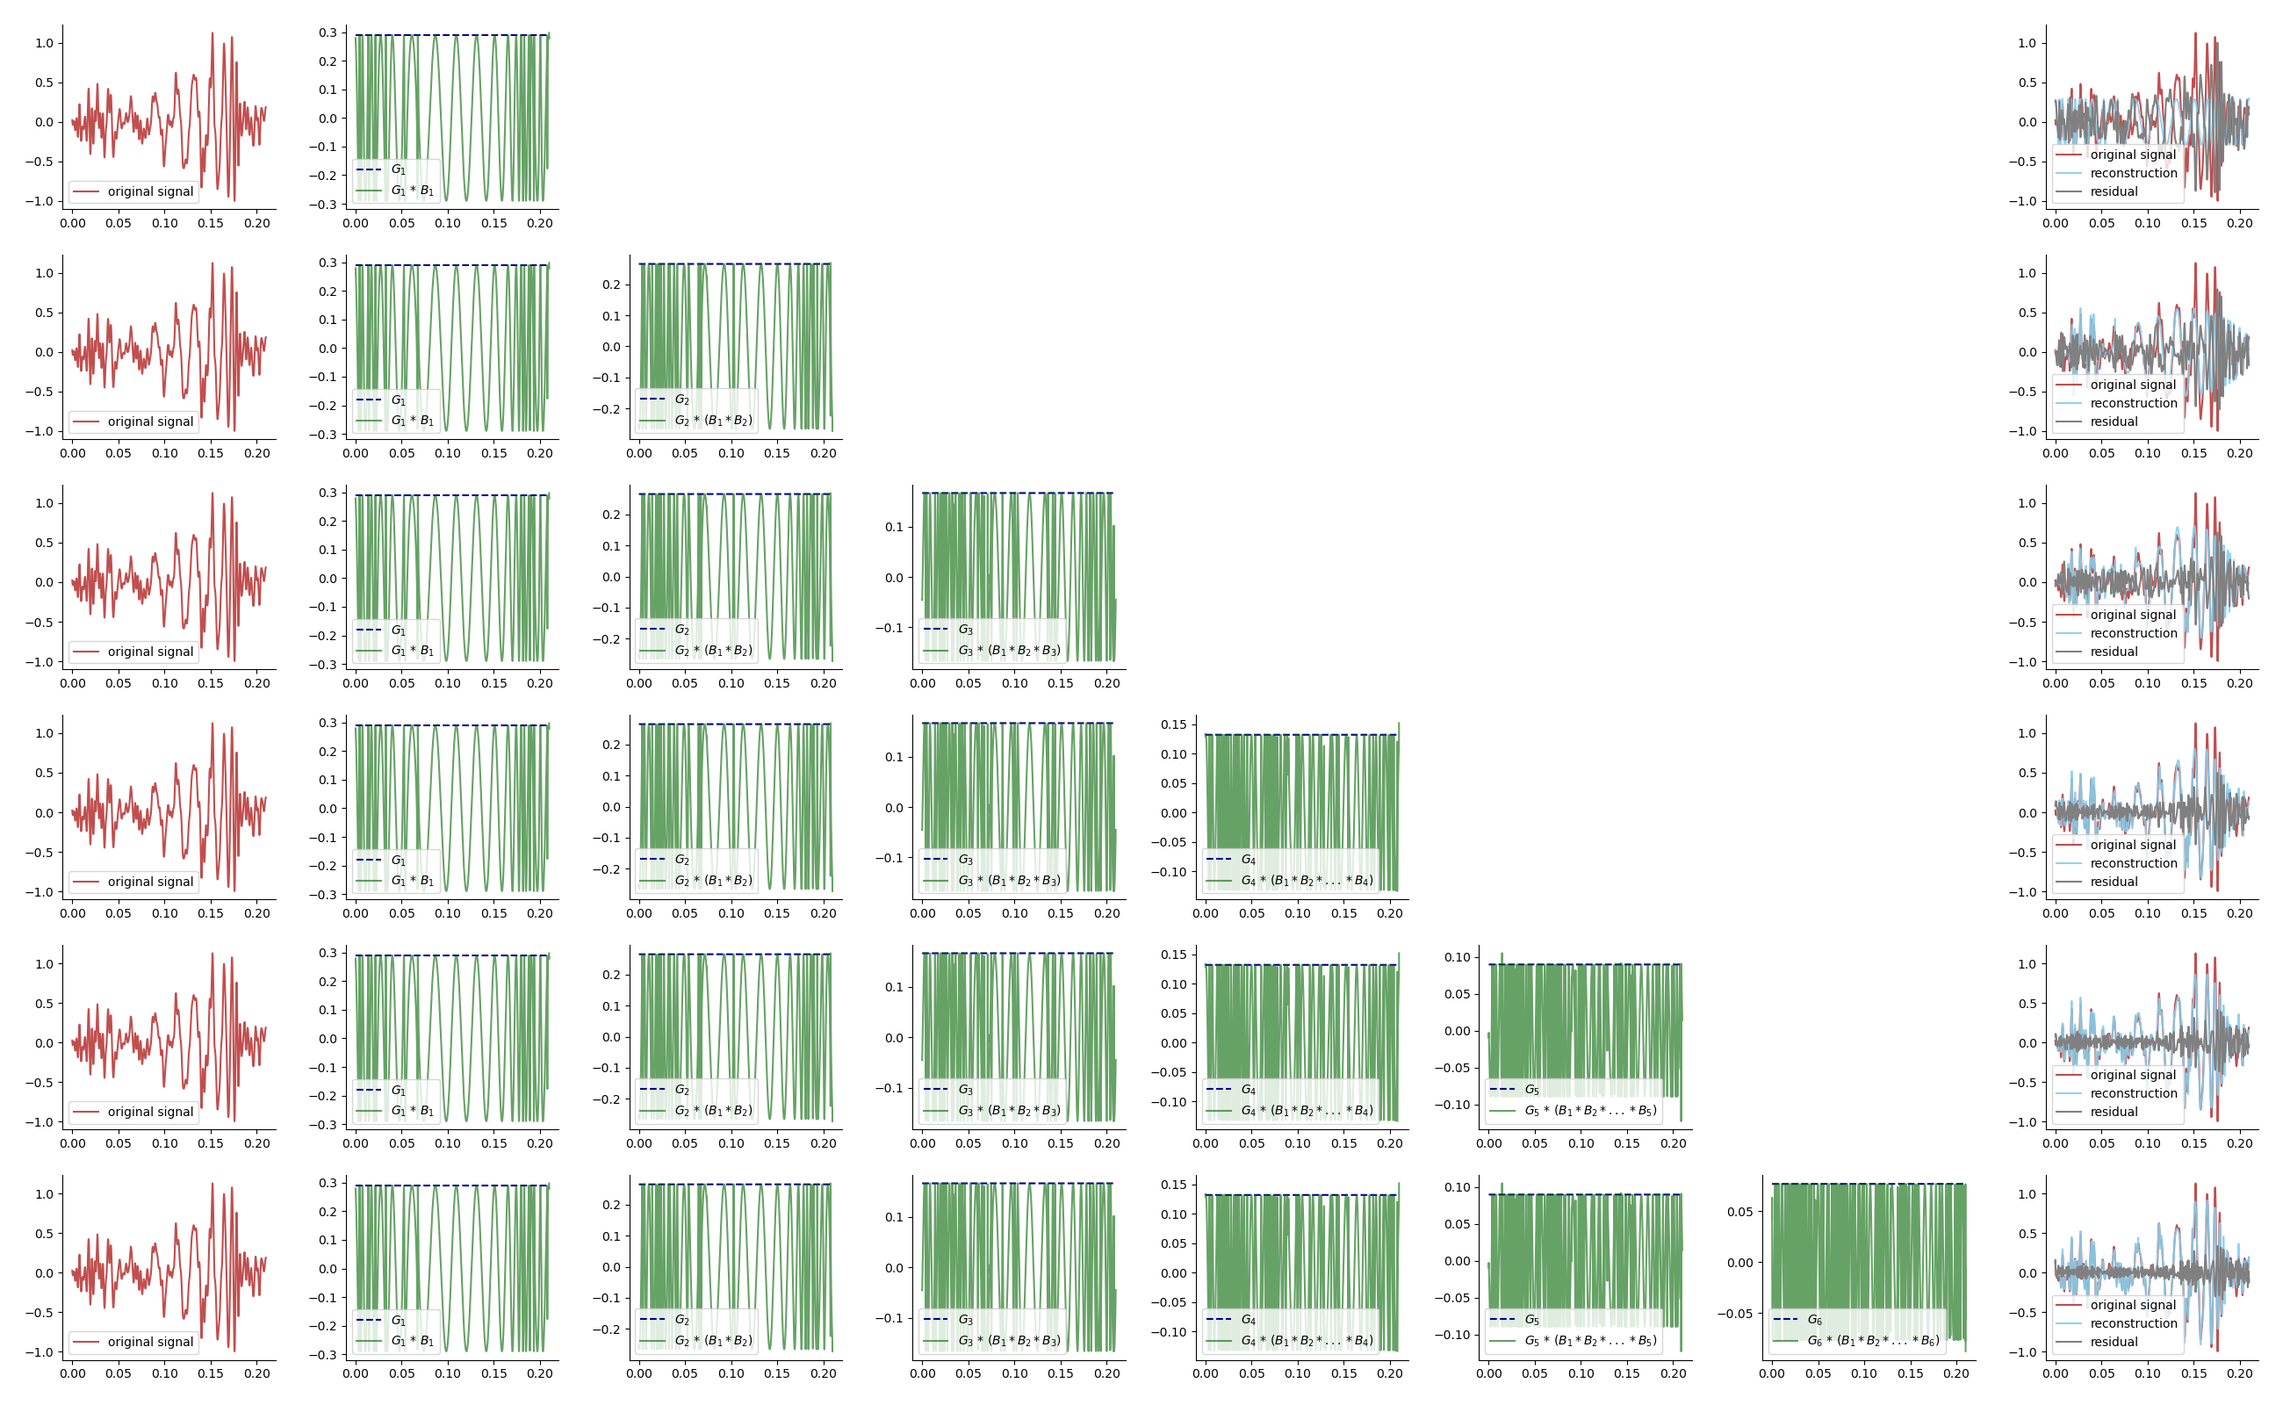
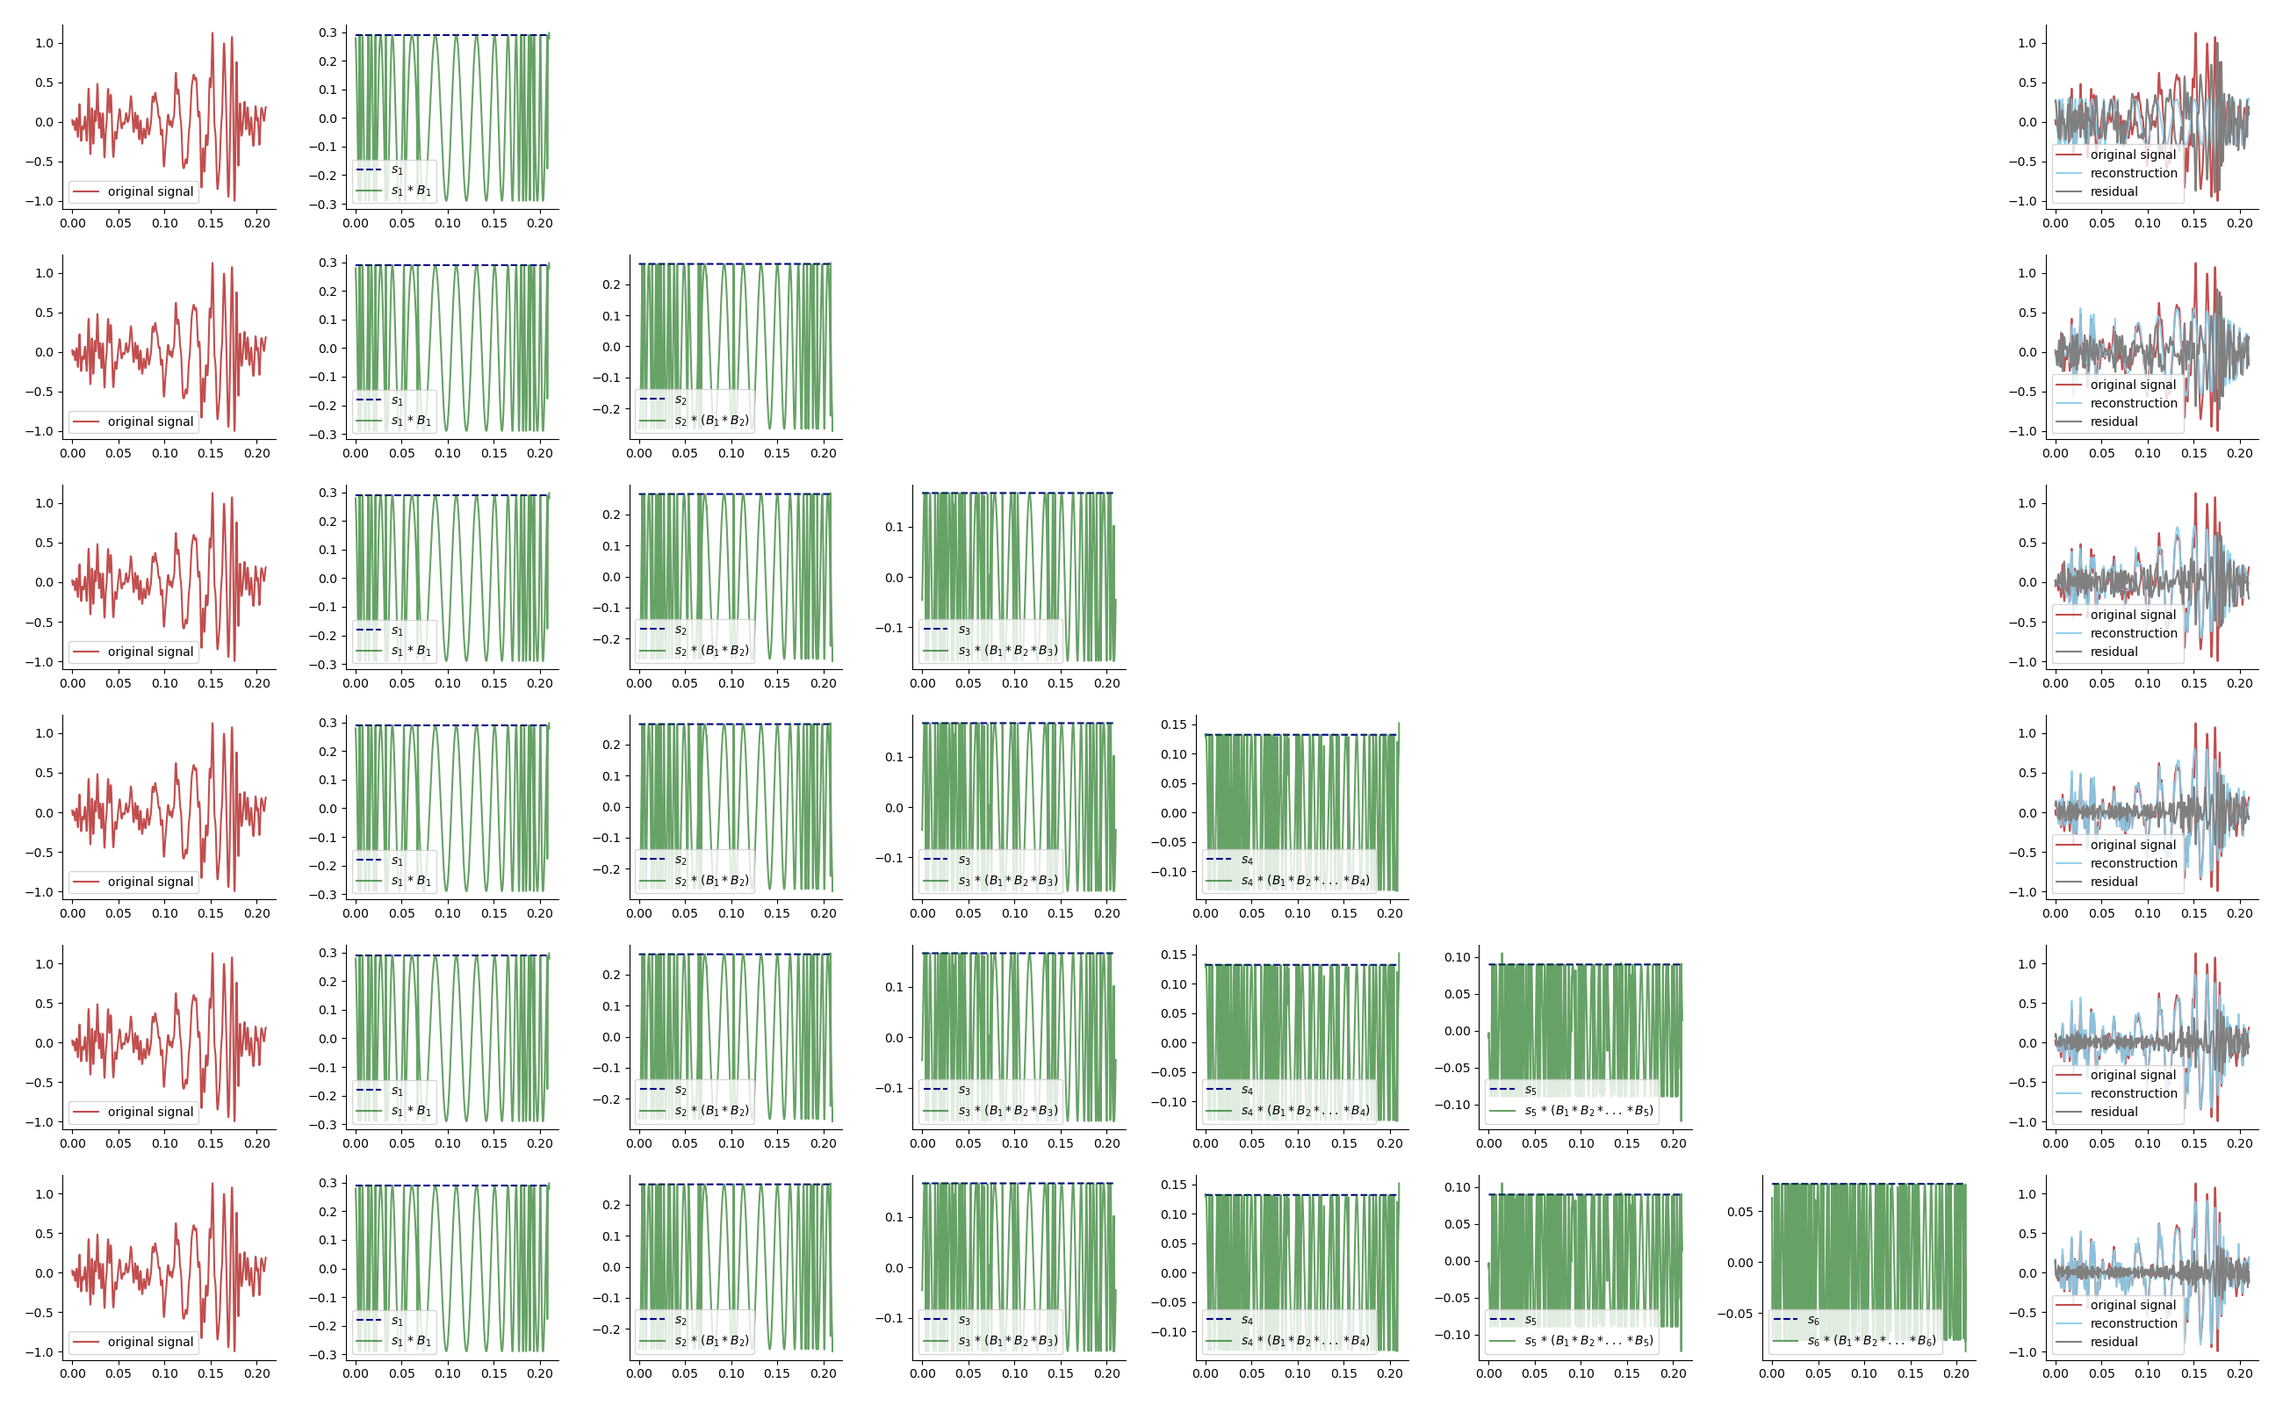
add plotting

diff --git a/src/train_ecg_ptbxl_1d.py b/src/train_ecg_ptbxl_1d.py
@@ -8,6 +8,8 @@ import torch.optim as optim
 from torch.utils.data import DataLoader
 from tqdm import tqdm
 from sklearn.metrics import roc_auc_score, accuracy_score, precision_recall_curve
+from einops import rearrange
+from matplotlib import pyplot as plt
 
 from models.BN1d import BlaschkeNetwork1d
 from nn_utils.scheduler import LinearWarmupCosineAnnealingLR
@@ -46,11 +48,75 @@ def binary_entropy(batched_coeffs: torch.Tensor, eps: float = 1e-8) -> torch.Ten
     return entropy
 
 
-def train_epoch(train_loader, model, optimizer, loss_fn_pred, num_classes, device):
+@torch.no_grad()
+def plot_signal_approx(signal_complex, s_arr, B_prod_arr, mode: str, epoch_idx: int, batch_idx: int):
+    signal_complex = signal_complex.cpu().detach().numpy()
+    s_arr = s_arr.cpu().detach().numpy()
+    B_prod_arr = B_prod_arr.cpu().detach().numpy()
+    assert len(signal_complex.shape) == 3
+    assert len(s_arr.shape) == len(B_prod_arr.shape) == 4
+    assert signal_complex.shape[0] == 1
+    assert signal_complex.shape[1] == B_prod_arr.shape[1] == 1
+    assert signal_complex.shape[2] == B_prod_arr.shape[2]
+    blaschke_order = B_prod_arr.shape[-1]
+
+    signal_complex = rearrange(signal_complex, 'b c l -> (b c) l').squeeze(0)
+    s_arr = rearrange(s_arr, 'b c l i -> (b c l) i').squeeze(0)
+    B_prod_arr = rearrange(B_prod_arr, 'b c l i -> (b c) l i').squeeze(0)
+
+    fig, ax = plt.subplots(blaschke_order, blaschke_order + 2, figsize = (4 * blaschke_order + 8, 4 * blaschke_order))
+    if blaschke_order == 1:
+        ax = ax[np.newaxis, :]
+    time_arr = np.arange(signal_complex.shape[-1])
+    for total_order in range(blaschke_order):
+        ax[total_order, 0].plot(time_arr, signal_complex.real, label = 'original signal', color='firebrick', alpha=0.8)
+        ax[total_order, 0].legend(loc='lower left')
+        ax[total_order, 0].spines['top'].set_visible(False)
+        ax[total_order, 0].spines['right'].set_visible(False)
+
+    for total_order in range(1, blaschke_order + 1):
+        for curr_order in range(1, total_order + 1):
+            ax[total_order - 1, curr_order].hlines(s_arr[curr_order-1].real, xmin=time_arr.min(), xmax=time_arr.max(), label = f'$s_{curr_order}$', color='darkblue', linestyle='--')
+            ax[total_order - 1, curr_order].plot(time_arr, (B_prod_arr[:, curr_order-1] * s_arr[curr_order-1]).real, label = f'$s_{curr_order}$ * ${display_blaschke_product(curr_order)}$', color='darkgreen', alpha=0.6)
+            ax[total_order - 1, curr_order].legend(loc='lower left')
+            ax[total_order - 1, curr_order].spines['top'].set_visible(False)
+            ax[total_order - 1, curr_order].spines['right'].set_visible(False)
+
+    final = 0
+    for curr_order in range(1, blaschke_order + 1):
+        final += (B_prod_arr[:, curr_order-1] * s_arr[curr_order-1]).real
+        ax[curr_order - 1, blaschke_order + 1].plot(time_arr, signal_complex.real, label = 'original signal', color='firebrick', alpha=0.8)
+        ax[curr_order - 1, blaschke_order + 1].plot(time_arr, final, label = 'reconstruction', color='skyblue', alpha=0.9)
+        ax[curr_order - 1, blaschke_order + 1].plot(time_arr, final - signal_complex.real, label = 'residual', color='gray', alpha=1.0)
+        ax[curr_order - 1, blaschke_order + 1].legend(loc='lower left')
+        ax[curr_order - 1, blaschke_order + 1].spines['top'].set_visible(False)
+        ax[curr_order - 1, blaschke_order + 1].spines['right'].set_visible(False)
+
+    # Remove axes from unused subplots
+    for i in range(blaschke_order):
+        for j in range(blaschke_order + 2):
+            if (j > i + 1) and (j != blaschke_order + 1):
+                ax[i, j].axis('off')
+
+    if mode != 'test':
+        save_path = os.path.join(args.plot_folder, mode, f'epoch_{epoch_idx + 1}_batch_{batch_idx + 1}.png')
+    else:
+        save_path = os.path.join(args.plot_folder, 'test.png')
+    os.makedirs(os.path.dirname(save_path), exist_ok=True)
+    fig.tight_layout(pad=2)
+    fig.savefig(save_path)
+    plt.close(fig)
+    return
+
+
+def train_epoch(train_loader, model, optimizer, loss_fn_pred, num_classes, device, epoch_idx):
     train_loss_pred, train_loss_recon, train_loss_indicator, train_acc, train_auroc = 0, 0, 0, 0, 0
     y_true_arr, y_pred_arr = None, None
+    plot_freq = max(len(train_loader) // args.n_plot_per_epoch, 1)
 
-    for (x, y_true) in train_loader:
+    for batch_idx, (x, y_true) in enumerate(train_loader):
+        should_plot = batch_idx % plot_freq == 0
+
         optimizer.zero_grad()
         x = x.to(device)
         y_pred, residual_sqnorm, weighting_coeffs = model(x)
@@ -81,6 +147,11 @@ def train_epoch(train_loader, model, optimizer, loss_fn_pred, num_classes, devic
             y_true_arr = np.vstack((y_true_arr, y_true.detach().cpu().numpy()))
             y_pred_arr = np.vstack((y_pred_arr, y_pred.detach().cpu().numpy()))
 
+        if should_plot:
+            with torch.no_grad():
+                signal_complex, s_arr, B_prod_arr = model.test_approximate(x[:1, :1, :])
+            plot_signal_approx(signal_complex, s_arr, B_prod_arr, mode='train', epoch_idx=epoch_idx, batch_idx=batch_idx)
+
     train_loss_pred /= len(train_loader)
     train_loss_recon /= len(train_loader)
     train_loss_indicator /= len(train_loader)
@@ -102,12 +173,14 @@ def train_epoch(train_loader, model, optimizer, loss_fn_pred, num_classes, devic
     return train_loss_pred, train_loss_recon, train_loss_indicator, train_acc, train_auroc
 
 @torch.no_grad()
-def infer(loader, model, loss_fn_pred, num_classes, device):
+def infer(loader, model, loss_fn_pred, num_classes, device, epoch_idx):
     avg_loss_pred, avg_loss_recon, avg_loss_indicator, acc, auroc = 0, 0, 0, 0, 0
     y_true_arr, y_pred_arr = None, None
     residual_by_iter = 0
+    plot_freq = max(len(loader) // args.n_plot_per_epoch, 1)
 
-    for x, y_true in loader:
+    for batch_idx, (x, y_true) in enumerate(loader):
+        should_plot = batch_idx % plot_freq == 0
         x = x.to(device)
         y_pred, residual_sqnorm, weighting_coeffs = model(x)
 
@@ -126,6 +199,15 @@ def infer(loader, model, loss_fn_pred, num_classes, device):
         else:
             y_true_arr = np.vstack((y_true_arr, y_true.detach().cpu().numpy()))
             y_pred_arr = np.vstack((y_pred_arr, y_pred.detach().cpu().numpy()))
+
+        if should_plot:
+            with torch.no_grad():
+                signal_complex, s_arr, B_prod_arr = model.test_approximate(x[:1, :1, :])
+            if epoch_idx is None:
+                mode = 'test'
+            else:
+                mode = 'val'
+            plot_signal_approx(signal_complex, s_arr, B_prod_arr, mode=mode, epoch_idx=epoch_idx, batch_idx=batch_idx)
 
     avg_loss_recon /= len(loader)
     avg_loss_pred /= len(loader)
@@ -146,6 +228,7 @@ def infer(loader, model, loss_fn_pred, num_classes, device):
     acc = np.mean(acc_by_class)
     auroc = np.mean(auroc_by_class)
     return avg_loss_pred, avg_loss_recon, avg_loss_indicator, residual_by_iter, acc, auroc
+
 
 def main(args):
     # Log the config.
@@ -188,11 +271,11 @@ def main(args):
         train_loss_pred_list, train_loss_recon_list, train_loss_indicator_list = [], [], []
         val_loss_pred_list, val_loss_recon_list, val_loss_indicator_list = [], [], []
         with tqdm(range(args.epoch)) as pbar:
-            for epoch in pbar:
+            for epoch_idx, epoch in enumerate(pbar):
                 # Training.
                 model.train()
                 train_loss_pred, train_loss_recon, train_loss_indicator, train_acc, train_auroc = \
-                    train_epoch(train_loader=train_loader, model=model, optimizer=optimizer, loss_fn_pred=loss_fn_pred, num_classes=num_classes, device=device)
+                    train_epoch(train_loader=train_loader, model=model, optimizer=optimizer, loss_fn_pred=loss_fn_pred, num_classes=num_classes, device=device, epoch_idx=epoch_idx)
                 train_loss_pred_list.append(train_loss_pred)
                 train_loss_recon_list.append(train_loss_recon)
                 train_loss_indicator_list.append(train_loss_indicator)
@@ -202,7 +285,7 @@ def main(args):
                 # Validation.
                 model.eval()
                 val_loss_pred, val_loss_recon, val_loss_indicator, val_residual_by_iter, val_acc, val_auroc = \
-                    infer(loader=val_loader, model=model, loss_fn_pred=loss_fn_pred, num_classes=num_classes, device=device)
+                    infer(loader=val_loader, model=model, loss_fn_pred=loss_fn_pred, num_classes=num_classes, device=device, epoch_idx=epoch_idx)
                 val_loss_pred_list.append(val_loss_pred)
                 val_loss_recon_list.append(val_loss_recon)
                 val_loss_indicator_list.append(val_loss_indicator)
@@ -252,7 +335,7 @@ def main(args):
     log('Testing begins.', filepath=args.log_path)
     model.eval()
     test_loss_pred, test_loss_recon, test_loss_indicator, test_residual_by_iter, test_acc, test_auroc = \
-        infer(loader=test_loader, model=model, loss_fn_pred=loss_fn_pred, num_classes=num_classes, device=device)
+        infer(loader=test_loader, model=model, loss_fn_pred=loss_fn_pred, num_classes=num_classes, device=device, epoch_idx=None)
 
     log_string = f'\nTest pred loss = {test_loss_pred:.3f}, recon loss = {test_loss_recon:.5f}, indicator loss = {test_loss_indicator:.5f}, acc = {100 * test_acc:.3f}, auroc = {100 * test_auroc:.3f}, test_residual_by_iter = {test_residual_by_iter}.'
     log(log_string, filepath=args.log_path, to_console=False)
@@ -267,6 +350,7 @@ if __name__ == '__main__':
     parser.add_argument('--lr', help='Learning rate.', type=float, default=1e-2)
     parser.add_argument('--batch-size', type=int, default=256)
     parser.add_argument('--epoch', type=int, default=40)
+    parser.add_argument('--n-plot-per-epoch', type=int, default=4)
     parser.add_argument('--loss-recon-coeff', type=float, default=1.0)
     parser.add_argument('--loss-indicator-coeff', type=float, default=0.1)        # Blaschke root selectors should be (almost) either 0 or 1.
     parser.add_argument('--num-workers', type=int, default=8)
@@ -285,6 +369,7 @@ if __name__ == '__main__':
     args.log_path = os.path.join(args.results_dir, 'log.txt')
     args.model_save_path = os.path.join(args.results_dir, 'model.pty')
     args.results_stats_save_path = os.path.join(args.results_dir, 'results_stats.npz')
+    args.plot_folder = os.path.join(ROOT_DIR, 'results', curr_run_identifier, 'figures')
 
     os.makedirs(args.results_dir, exist_ok=True)
 

diff --git a/src/models/BN1d.py b/src/models/BN1d.py
@@ -381,6 +381,42 @@ class BlaschkeNetwork1d(nn.Module):
         signal = torch.from_numpy(signal).to(x.device)
         return signal
 
+    @torch.no_grad()
+    def test_approximate(self, x: torch.Tensor) -> torch.Tensor:
+        # Input should be a [B, C, L] signal.
+        assert len(x.shape) == 3
+        # Complexify the signal using hilbert transform.
+        signal_complex = self.complexify(x)
+
+        blaschke_factors = []
+        s_arr, B_prod_arr = None, None
+
+        residual_signal = signal_complex
+        for layer in self.encoder:
+            blaschke_factors.append(layer(residual_signal))
+
+            # Blaschke product is the cumulative product of Blaschke factors
+            # B_1 * B_2 * ... * B_n.
+            blaschke_product = 1
+            for blaschke_factor in blaschke_factors:
+                blaschke_product = blaschke_product * blaschke_factor
+
+            # The Blaschke approximation is given by
+            # s_n * B_1 * B_2 * ... * B_n.
+            curr_signal_approx = layer.scale * blaschke_product
+
+            # F_{n+1} = F_n - s_n * B_1 * ... * B_n.
+            residual_signal = residual_signal - curr_signal_approx
+
+            if s_arr is None:
+                s_arr = layer.scale.unsqueeze(-1)
+                B_prod_arr = blaschke_product.unsqueeze(-1)
+            else:
+                s_arr = torch.cat((s_arr, layer.scale.unsqueeze(-1)), dim=-1)
+                B_prod_arr = torch.cat((B_prod_arr, blaschke_product.unsqueeze(-1)), dim=-1)
+
+        return signal_complex, s_arr, B_prod_arr
+
     def forward(self, x: torch.Tensor) -> torch.Tensor:
         '''
         Args:
@@ -392,8 +428,10 @@ class BlaschkeNetwork1d(nn.Module):
         --------
             y_pred : 2D torch.float
                 outputs, shape [B, CLS] (batch size, number of classes)
-            residual_signals_sqsum : torch.float
+            residual_sqnorm : torch.float
                 squared norm of signal approximation error
+            weighting_coeffs: torch.float
+                model-predicted weighting coefficient for each Blaschke root
         '''
 
         # Input should be a [B, C, L] signal.
@@ -464,8 +502,24 @@ class BlaschkeNetwork1d(nn.Module):
         self.device = device
         return self
 
+def display_blaschke_product(order: int):
+    '''
+    A helper function to print the blaschke product in cumulative product.
+    '''
+    blaschke_product_str = ''
+    if order == 1:
+        blaschke_product_str += 'B_1'
+    elif order == 2:
+        blaschke_product_str += '(B_1 * B_2)'
+    elif order == 3:
+        blaschke_product_str += '(B_1 * B_2 * B_3)'
+    else:
+        blaschke_product_str += f'(B_1 * B_2 *...* B_{order})'
+    return blaschke_product_str
+
 
 if __name__ == '__main__':
-    model = BlaschkeNetwork1d(layers=3, signal_len=100, num_channels=10, patch_size=20)
+    model = BlaschkeNetwork1d(layers=1, signal_len=100, num_channels=10, patch_size=20)
     x = torch.normal(0, 1, size=(32, 10, 100))
     y, residual_sqnorm, blaschke_coeffs = model(x)
+    signal_complex, s_arr, B_prod_arr = model.test_approximate(x[:1, :1, :])

diff --git a/src/analytical/analytical_decomposition.py b/src/analytical/analytical_decomposition.py
@@ -238,8 +238,8 @@ if __name__ == '__main__':
 
     for total_order in range(1, blaschke_order + 1):
         for curr_order in range(1, total_order + 1):
-            ax[total_order - 1, curr_order].plot(time_arr, low_freq_component[curr_order].real, label = f'$G_{curr_order}$', color='darkblue', linestyle='--')
-            ax[total_order - 1, curr_order].plot(time_arr, (blaschke_product[curr_order-1] * low_freq_component[curr_order]).real, label = f'$G_{curr_order}$ * ${display_blaschke_product(curr_order)}$', color='darkgreen', alpha=0.6)
+            ax[total_order - 1, curr_order].plot(time_arr, low_freq_component[curr_order].real, label = f'$s_{curr_order}$', color='darkblue', linestyle='--')
+            ax[total_order - 1, curr_order].plot(time_arr, (blaschke_product[curr_order-1] * low_freq_component[curr_order]).real, label = f'$s_{curr_order}$ * ${display_blaschke_product(curr_order)}$', color='darkgreen', alpha=0.6)
             ax[total_order - 1, curr_order].legend(loc='lower left')
             ax[total_order - 1, curr_order].spines['top'].set_visible(False)
             ax[total_order - 1, curr_order].spines['right'].set_visible(False)
